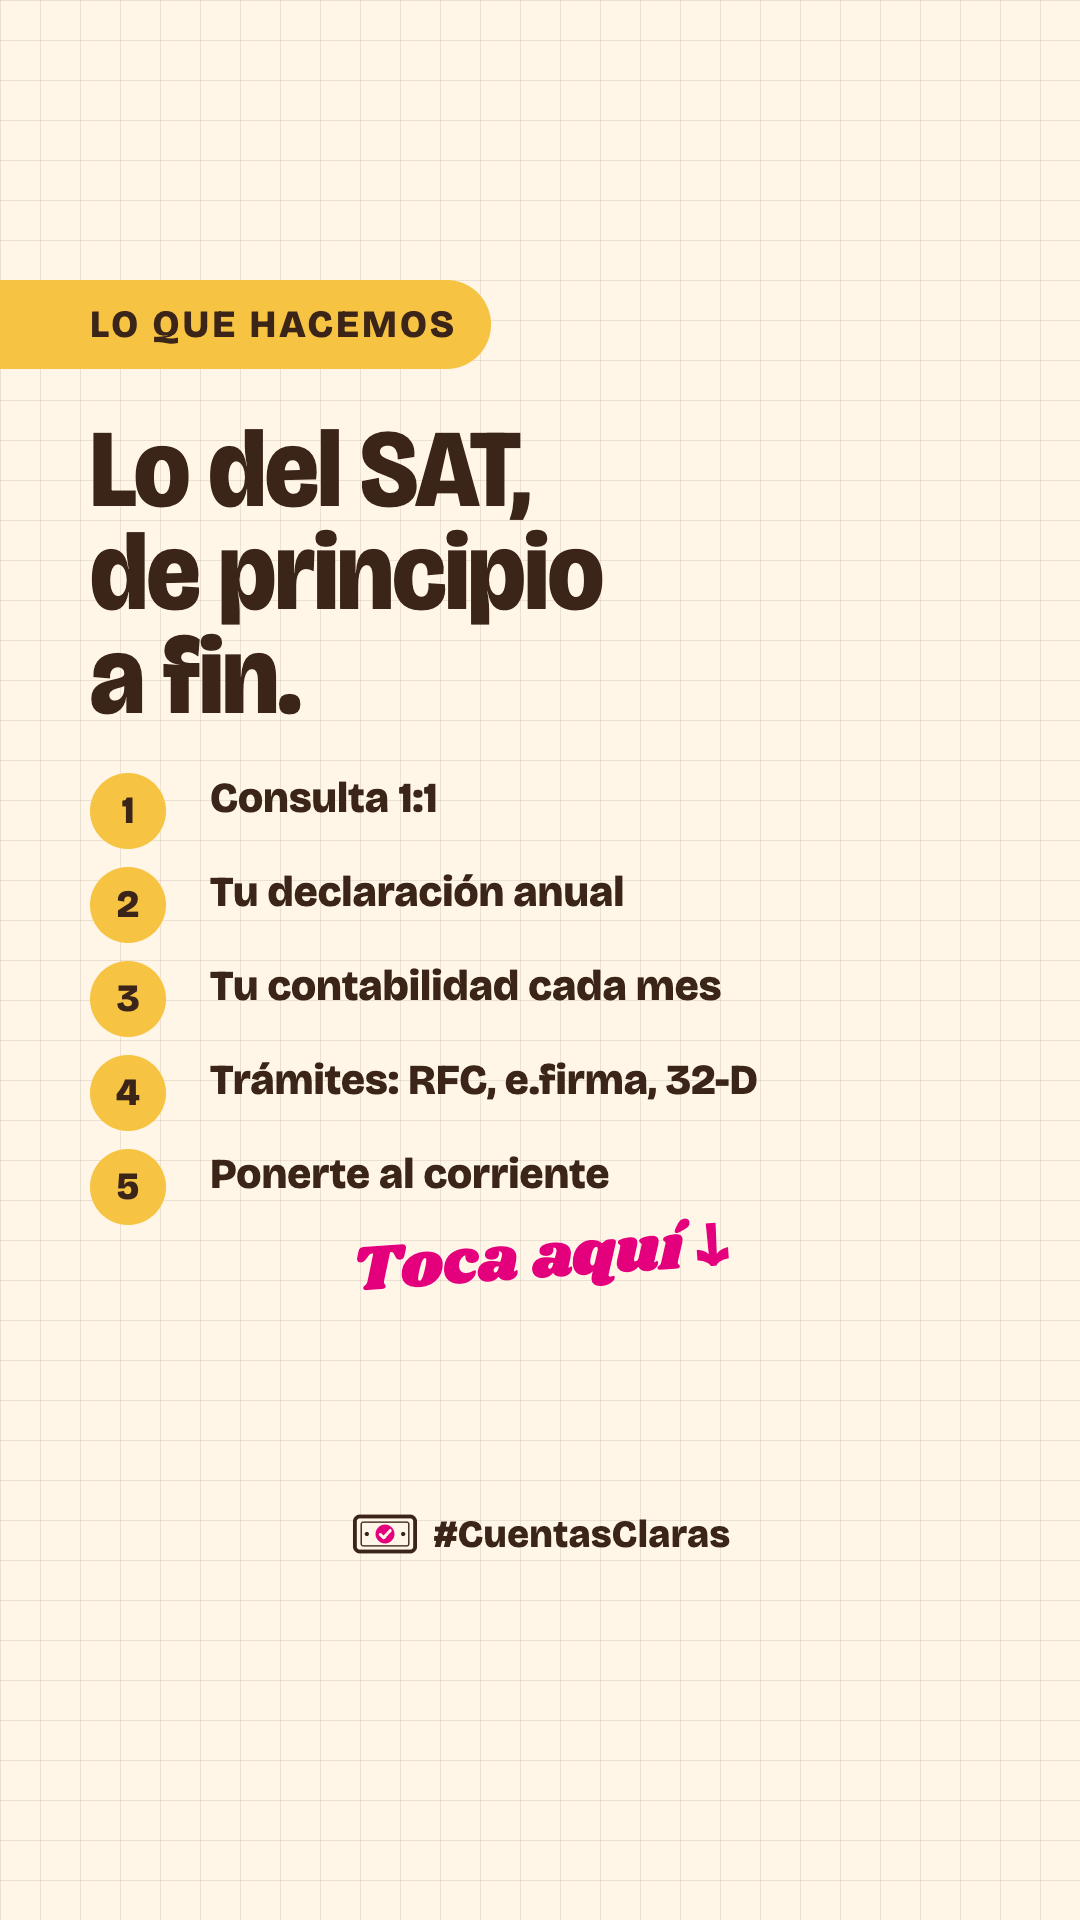
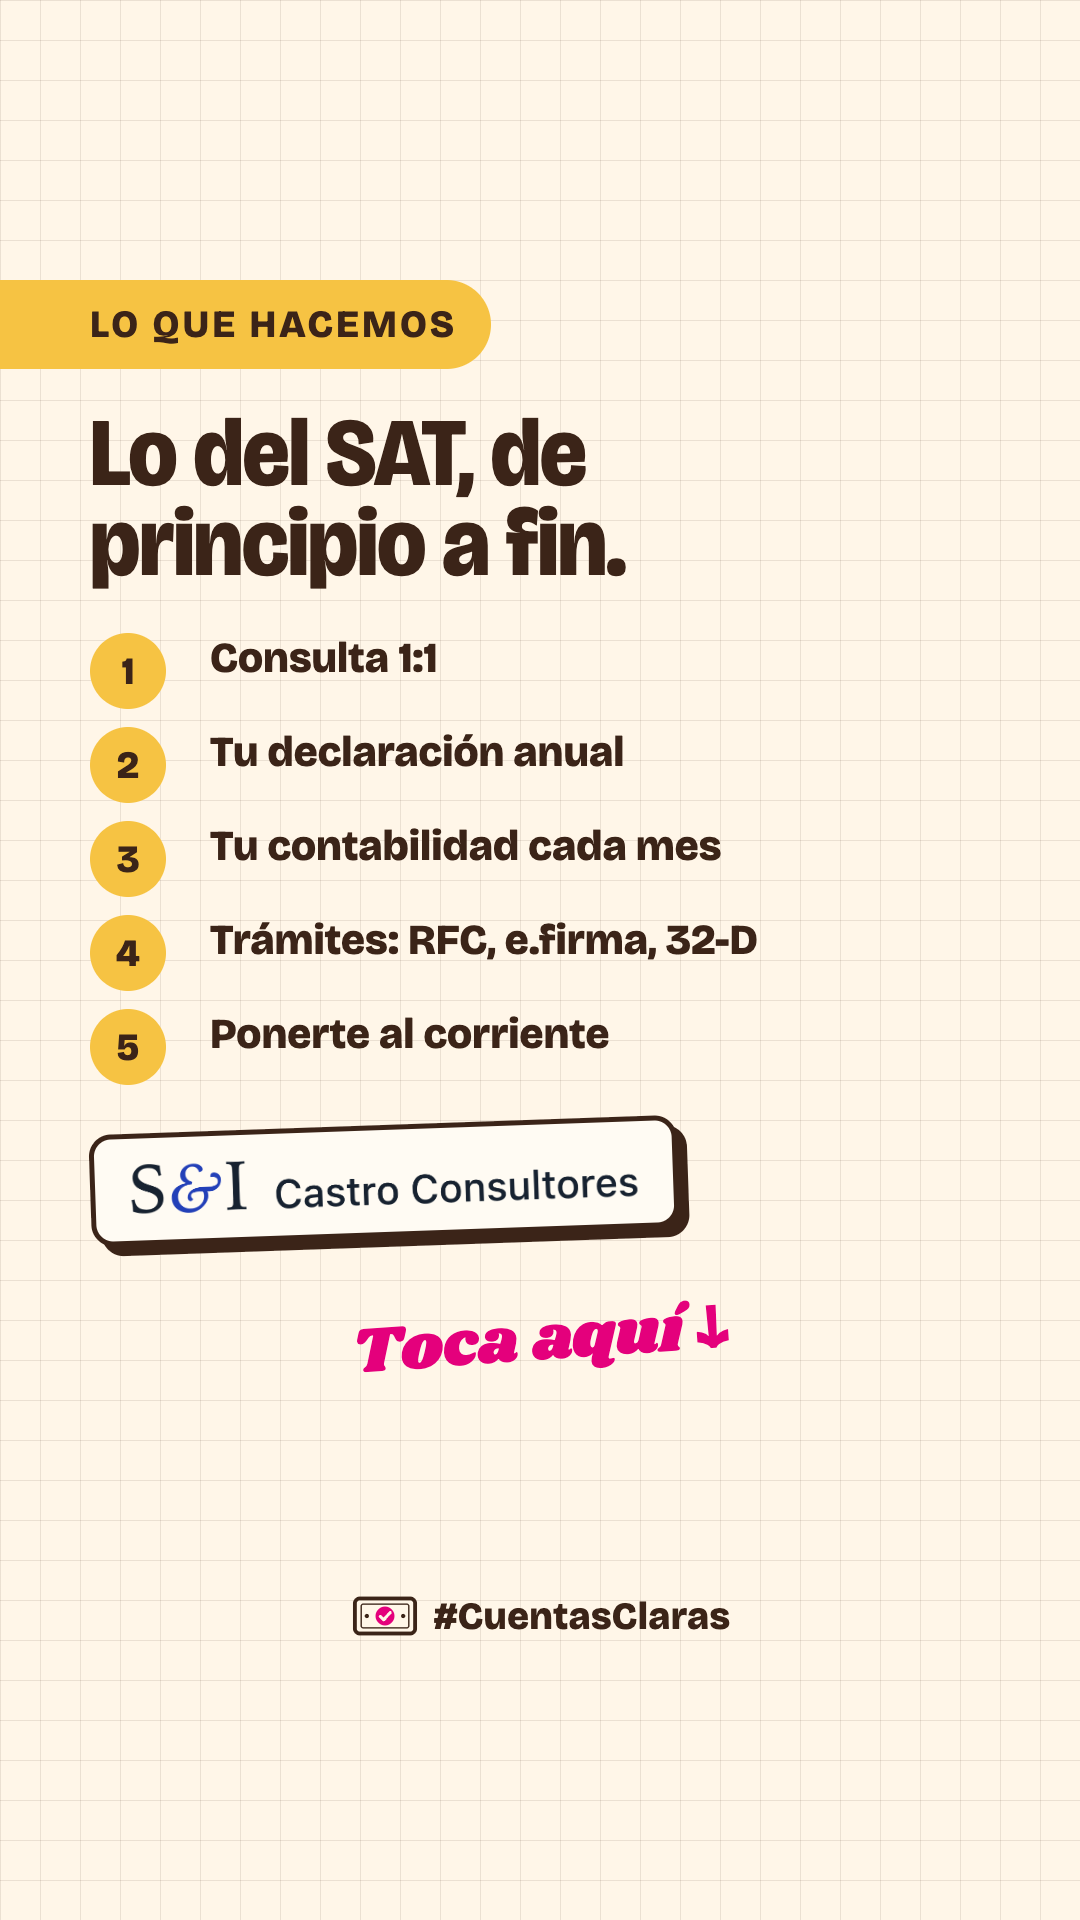
Servicios 2/4 con la calcomanía del despacho y el sticker a /honorarios
Claude-Session: https://claude.ai/code/session_01DssaS1DUFqzs5W9YGi33pK

Changed region(s): [[0.0611, 0.2188, 0.7028, 0.7188], [0.3056, 0.7812, 0.6722, 0.875]]

diff --git a/design/tableros/historias.html b/design/tableros/historias.html
@@ -102,6 +102,7 @@
   .sello-logo { margin-top: 40px; margin-bottom: 70px; display: inline-flex; align-items: center; padding: 26px 36px; background: #FFFBF3;
     border: 5px solid var(--cacao); border-radius: 22px; box-shadow: 10px 10px 0 var(--cacao); transform: rotate(-2deg); }
   .sello-logo img { display: block; height: 64px; width: auto; }
+  .logo-ancho .sello-logo img { height: 50px; }   /* el del despacho es 10:1 */
   .con-logo .tit { font-size: 100px; max-width: 14ch; }
   .con-logo .txt { font-size: 42px; max-width: 22ch; }
   .tipo-lista-enlace .lista li { font-size: 42px; }
@@ -149,7 +150,7 @@
 <template id="t-servicios-portada-maiz"><div class="portada libreta"><div class="circulo "><svg viewBox="0 0 200 200" class="ico"><rect x="30" y="66" width="140" height="98" rx="16" fill="none" stroke="currentColor" stroke-width="10"/><path d="M76 66V50a10 10 0 0 1 10-10h28a10 10 0 0 1 10 10v16M30 104h140" stroke="currentColor" stroke-width="10" fill="none"/><rect x="86" y="94" width="28" height="22" rx="5" fill="var(--acento)"/></svg></div></div></template>
 <template id="t-servicios-portada-maiz-perfil"><div class="portada libreta"><div class="circulo "><svg viewBox="0 0 200 200" class="ico"><rect x="30" y="66" width="140" height="98" rx="16" fill="none" stroke="currentColor" stroke-width="10"/><path d="M76 66V50a10 10 0 0 1 10-10h28a10 10 0 0 1 10 10v16M30 104h140" stroke="currentColor" stroke-width="10" fill="none"/><rect x="86" y="94" width="28" height="22" rx="5" fill="var(--acento)"/></svg></div></div></template>
 <template id="t-servicios-01"><div class="h libreta tipo-texto "><span class="kick">Servicios</span><h3 class="disp tit">Aprende con nosotros, o <span class="rem">déjalo en nuestras manos.</span></h3><p class="txt">Con S &amp; I Castro Consultores, el despacho familiar. 100% en línea en todo México.</p><div class="pie-h"><svg viewBox="0 0 200 200"><use href="#simbolo"/></svg><span>@soyisraelcastro</span></div></div></template>
-<template id="t-servicios-02"><div class="h libreta tipo-lista-enlace "><span class="kick">Lo que hacemos</span><h3 class="disp tit">Lo del SAT, de principio a fin.</h3><ol class="lista"><li><span class="bola">1</span><div><b>Consulta 1:1</b></div></li><li><span class="bola">2</span><div><b>Tu declaración anual</b></div></li><li><span class="bola">3</span><div><b>Tu contabilidad cada mes</b></div></li><li><span class="bola">4</span><div><b>Trámites: RFC, e.firma, 32-D</b></div></li><li><span class="bola">5</span><div><b>Ponerte al corriente</b></div></li></ol><div class="enlace"><span class="rot">Toca aquí</span><div class="hueco"><div class="guia caja-sticker">Aquí va el sticker de enlace</div></div></div><div class="pie-h tag"><svg viewBox="0 0 200 200"><use href="#simbolo"/></svg><span>#CuentasClaras</span></div></div></template>
+<template id="t-servicios-02"><div class="h libreta tipo-lista-enlace compacta logo-ancho"><span class="kick">Lo que hacemos</span><h3 class="disp tit">Lo del SAT, de principio a fin.</h3><ol class="lista"><li><span class="bola">1</span><div><b>Consulta 1:1</b></div></li><li><span class="bola">2</span><div><b>Tu declaración anual</b></div></li><li><span class="bola">3</span><div><b>Tu contabilidad cada mes</b></div></li><li><span class="bola">4</span><div><b>Trámites: RFC, e.firma, 32-D</b></div></li><li><span class="bola">5</span><div><b>Ponerte al corriente</b></div></li></ol><div class="sello-logo"><img src="../landing/img/logo-sicastro.png" alt="S &amp; I Castro Consultores"></div><div class="enlace"><span class="rot">Toca aquí</span><div class="hueco"><div class="guia caja-sticker">Aquí va el sticker de enlace</div></div></div><div class="pie-h tag"><svg viewBox="0 0 200 200"><use href="#simbolo"/></svg><span>#CuentasClaras</span></div></div></template>
 <template id="t-servicios-03"><div class="h libreta tipo-lista-enlace compacta"><span class="kick">¿Eres contador?</span><h3 class="disp tit">Enseño IA <span class="rem">a contadores.</span></h3><ol class="lista"><li><span class="bola">1</span><div><b>Jueves de ContadorIA</b><span>Clase en vivo y gratis cada jueves</span></div></li><li><span class="bola">2</span><div><b>Talleres en vivo</b><span>Usa y construye con IA sin ser programador</span></div></li><li><span class="bola">3</span><div><b>Capacitación para despachos</b><span>Con tu equipo y tu operación</span></div></li><li><span class="bola">4</span><div><b>Ebook IA para Contadores</b><span>La IA explicada con conceptos contables</span></div></li></ol><div class="sello-logo"><img src="../landing/img/logo-soycontador-ai.png" alt="soycontador.ai"></div><div class="enlace"><span class="rot">Toca aquí</span><div class="hueco"><div class="guia caja-sticker">Aquí va el sticker de enlace</div></div></div><div class="pie-h tag"><svg viewBox="0 0 200 200"><use href="#simbolo"/></svg><span>#CuentasClaras</span></div></div></template>
 <template id="t-servicios-04"><div class="h libreta tipo-enlace con-logo"><span class="kick">Para tu despacho</span><h3 class="disp tit">Menos portal. <span class="res">Más despacho.</span></h3><p class="txt">Descarga los CFDIs, la constancia y la 32-D de todas tus empresas, desde el navegador o la app. Lo que tardabas horas, ahora corre solo.</p><div class="sello-logo"><img src="../landing/img/logo-todoconta.png" alt="TodoConta"></div><div class="enlace"><span class="rot">Toca aquí</span><div class="hueco"><div class="guia caja-sticker">Aquí va el sticker de enlace</div></div></div><div class="pie-h tag"><svg viewBox="0 0 200 200"><use href="#simbolo"/></svg><span>#CuentasClaras</span></div></div></template>
 <template id="t-testimonios-portada-maiz"><div class="portada libreta"><div class="circulo "><svg viewBox="0 0 200 200" class="ico"><path d="M40 44h120a14 14 0 0 1 14 14v62a14 14 0 0 1-14 14H92l-34 28v-28H40a14 14 0 0 1-14-14V58a14 14 0 0 1 14-14z" fill="none" stroke="currentColor" stroke-width="10" stroke-linejoin="round"/><path d="M100 62l9 18 20 3-14 14 3 20-18-9-18 9 3-20-14-14 20-3z" fill="var(--acento)"/></svg></div></div></template>

diff --git a/design/historias/generar.py b/design/historias/generar.py
@@ -61,10 +61,11 @@ DESTACADAS = [
             {"tipo": "texto", "kicker": "Servicios",
              "titulo": 'Aprende con nosotros, o <span class="rem">déjalo en nuestras manos.</span>',
              "texto": "Con S & I Castro Consultores, el despacho familiar. 100% en línea en todo México."},
-            {"tipo": "lista-enlace", "kicker": "Lo que hacemos", "titulo": "Lo del SAT, de principio a fin.",
+            {"tipo": "lista-enlace", "clase": "compacta logo-ancho", "kicker": "Lo que hacemos", "titulo": "Lo del SAT, de principio a fin.",
              "items": [("Consulta 1:1", ""), ("Tu declaración anual", ""), ("Tu contabilidad cada mes", ""),
                        ("Trámites: RFC, e.firma, 32-D", ""), ("Ponerte al corriente", "")],
-             "enlace": True},
+             # Logo del despacho capturado del encabezado de sicastro-v2 (sistema de diseño nuevo)
+             "logo": ("logo-sicastro.png", "S & I Castro Consultores"), "enlace": True},
             {"tipo": "lista-enlace", "clase": "compacta", "kicker": "¿Eres contador?", "titulo": 'Enseño IA <span class="rem">a contadores.</span>',
              "items": [("Jueves de ContadorIA", "Clase en vivo y gratis cada jueves"),
                        ("Talleres en vivo", "Usa y construye con IA sin ser programador"),
@@ -364,6 +365,7 @@ PLANTILLA = """<!doctype html>
   .sello-logo { margin-top: 40px; margin-bottom: 70px; display: inline-flex; align-items: center; padding: 26px 36px; background: #FFFBF3;
     border: 5px solid var(--cacao); border-radius: 22px; box-shadow: 10px 10px 0 var(--cacao); transform: rotate(-2deg); }
   .sello-logo img { display: block; height: 64px; width: auto; }
+  .logo-ancho .sello-logo img { height: 50px; }   /* el del despacho es 10:1 */
   .con-logo .tit { font-size: 100px; max-width: 14ch; }
   .con-logo .txt { font-size: 42px; max-width: 22ch; }
   .tipo-lista-enlace .lista li { font-size: 42px; }

diff --git a/docs/instagram-destacados-enlaces.md b/docs/instagram-destacados-enlaces.md
@@ -38,14 +38,12 @@ YouTube ignora los utm: la visita se ve en YouTube Studio → Alcance → Fuente
 
 | Historia | Sticker | Enlace |
 |---|---|---|
-| 2/4 · Lo del SAT, de principio a fin | `Ver precios` | `https://sicastro.com/?utm_source=instagram&utm_medium=social&utm_campaign=cuentas-claras-destacados&utm_content=servicios-02` |
+| 2/4 · Lo del SAT, de principio a fin | `Ver precios` | `https://sicastro.com/honorarios?utm_source=instagram&utm_medium=social&utm_campaign=cuentas-claras-destacados&utm_content=servicios-02` |
 | 3/4 · Enseño IA a contadores | `soycontador.ai` | `https://soycontador.ai/?utm_source=instagram&utm_medium=social&utm_campaign=cuentas-claras-destacados&utm_content=servicios-03` |
 | 4/4 · Menos portal. Más despacho. | `Probar TodoConta` | `https://todoconta.com/?utm_source=instagram&utm_medium=social&utm_campaign=cuentas-claras-destacados&utm_content=servicios-04` |
 
-⚠ **Servicios 2/4 apunta a la portada de sicastro.com mientras `sicastro.com/honorarios` no esté
-publicada** (al 2026-10-27 da 404: es de `sicastro-v2`, sin publicar). Cuando se publique, cambiar
-el sticker a:
-`https://sicastro.com/honorarios?utm_source=instagram&utm_medium=social&utm_campaign=cuentas-claras-destacados&utm_content=servicios-02`
+⚠ **`sicastro.com/honorarios` da 404 hasta que se mergeen los PRs #1 y #2 de `soycontadorAI/sicastro`.**
+El sticker ya va a la página definitiva (Israel, 2026-10-27): los montos se ajustan allá, no aquí.
 
 ### Preguntas
 
